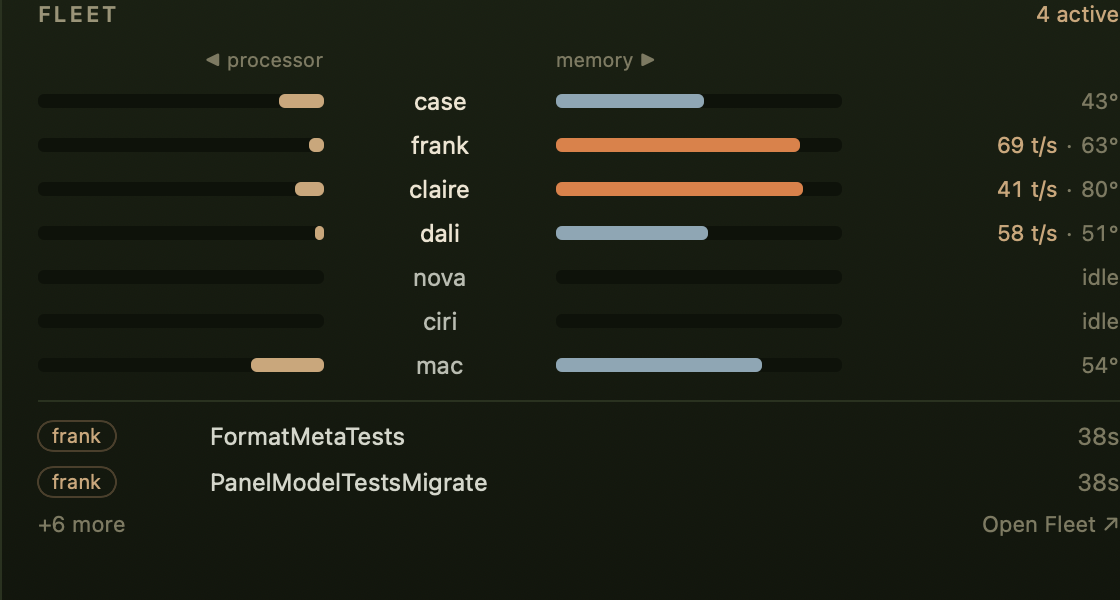
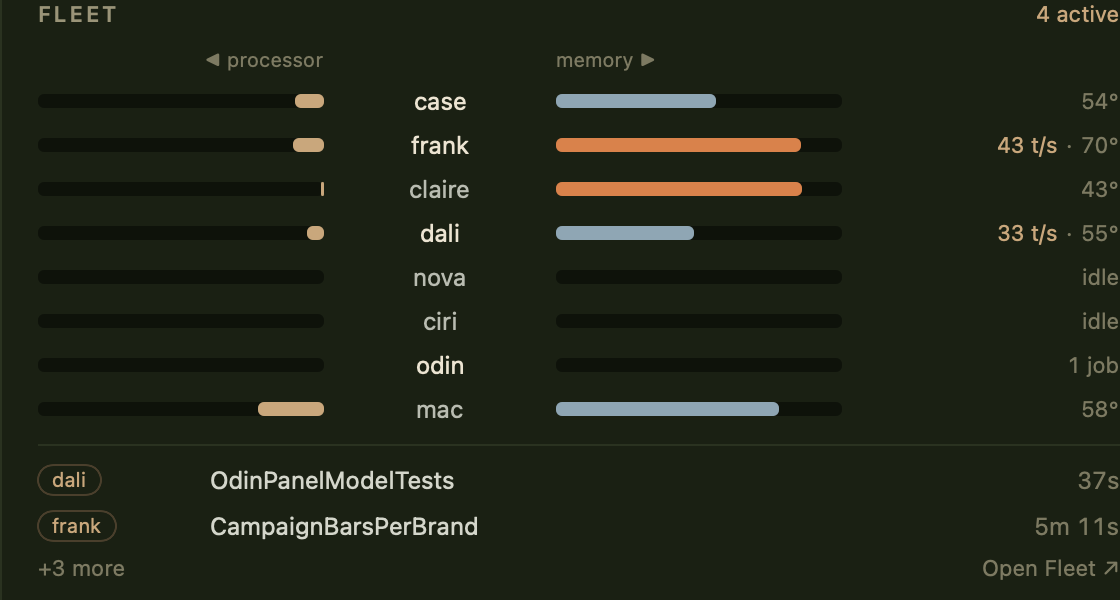
Fleet panel: add the Odin node (QA reviewer)
Odin is the QA step that runs on case, reported by the fleet API like ciri:
activity device "odin", fleet machine id "odin". The builder gives it the
same agent lane shape — label "odin", kind .agent, state from the odin
machine, jobs from the odin device, no CPU/RAM/temp readings (empty bars,
"1 job"/"N jobs"/"idle"/"—"), and it counts once in "N active" like every
other lane. Row order becomes frank, claire, dali, nova, ciri, odin, macbook.

Missing data stays inert: while the API does not report odin yet the lane
renders offline/grey like any other absent machine, no crash.

Tests: odin busy (3, 1 and 0 jobs), idle, offline-when-the-machine-is-missing,
and activeCount/nowJobs coverage; the shared fixtures now include the odin
machine.

docs/fleet-section-preview.png refreshed from the live API payload (odin
reviewing).

diff --git a/boringNotchTests/FleetPanelModelTests.swift b/boringNotchTests/FleetPanelModelTests.swift
@@ -44,10 +44,11 @@ final class FleetPanelModelTests: XCTestCase {
         return "{\"generatedAt\":\"2026-10-02T07:00:00.000Z\",\"devices\":[\(devices.joined(separator: ","))]}"
     }
 
-    /// case, frank (37.5°, 85% RAM), claire, dali (51°), macbook (68.3°), ciri (no readings); all online.
+    /// case, frank (37.5°, 85% RAM), claire, dali (51°), macbook (68.3°), ciri (no readings), odin (no readings); all online.
     private func onlineFleetJSON() -> String {
         return fleetJSON([machineJSON("case"), machineJSON("frank", ram: 85, temp: 37.5), machineJSON("claire"),
-                          machineJSON("dali", temp: 51), machineJSON("macbook", temp: 68.3), machineJSON("ciri")])
+                          machineJSON("dali", temp: 51), machineJSON("macbook", temp: 68.3), machineJSON("ciri"),
+                          machineJSON("odin")])
     }
 
     private func fleet(_ json: String, file: StaticString = #file, line: UInt = #line) -> FleetSnapshot? {
@@ -71,15 +72,15 @@ final class FleetPanelModelTests: XCTestCase {
 
     func testNilSnapshotsGiveOfflineLanesAndCaseOrigin() {
         let model = FleetPanelModelBuilder.build(fleet: nil, activity: nil)
-        XCTAssertEqual(model.nodes.map(\.id), ["frank", "claire", "dali", "nova", "ciri", "macbook"])
-        XCTAssertEqual(model.nodes.map(\.label), ["frank", "claire", "dali", "nova", "ciri", "mac"])
-        XCTAssertEqual(model.nodes.map(\.kind), [.gpu, .gpu, .gpu, .cloud, .agent, .mac])
-        XCTAssertEqual(model.nodes.map(\.state), [.offline, .offline, .offline, .offline, .offline, .offline])
+        XCTAssertEqual(model.nodes.map(\.id), ["frank", "claire", "dali", "nova", "ciri", "odin", "macbook"])
+        XCTAssertEqual(model.nodes.map(\.label), ["frank", "claire", "dali", "nova", "ciri", "odin", "mac"])
+        XCTAssertEqual(model.nodes.map(\.kind), [.gpu, .gpu, .gpu, .cloud, .agent, .agent, .mac])
+        XCTAssertEqual(model.nodes.map(\.state), [.offline, .offline, .offline, .offline, .offline, .offline, .offline])
         XCTAssertEqual(model.origin.id, "case")
         XCTAssertEqual(model.origin.label, "case")
         XCTAssertEqual(model.origin.kind, .host)
         XCTAssertEqual(model.origin.state, .offline)
-        XCTAssertEqual(model.lanes.map(\.id), ["case", "frank", "claire", "dali", "nova", "ciri", "macbook"])
+        XCTAssertEqual(model.lanes.map(\.id), ["case", "frank", "claire", "dali", "nova", "ciri", "odin", "macbook"])
         XCTAssertEqual(model.activeCount, 0)
         XCTAssertFalse(model.isBusy)
         XCTAssertTrue(model.nowJobs.isEmpty)
@@ -182,7 +183,8 @@ final class FleetPanelModelTests: XCTestCase {
 
     func testCaseOriginCountsOnceAndShowsTemperature() {
         let json = fleetJSON([machineJSON("case", temp: 38.37), machineJSON("frank"), machineJSON("claire"),
-                              machineJSON("dali"), machineJSON("macbook"), machineJSON("ciri")])
+                              machineJSON("dali"), machineJSON("macbook"), machineJSON("ciri"),
+                              machineJSON("odin")])
         guard let f = fleet(json),
               let a = activity(activityJSON([deviceJSON("case", busy: true, items: [
                   itemJSON("case-a", device: "case", since: "2026-10-02T06:00:00.000Z", elapsedSec: 120),
@@ -194,7 +196,7 @@ final class FleetPanelModelTests: XCTestCase {
         XCTAssertEqual(model.origin.jobs.count, 2)
         XCTAssertEqual(model.origin.meta.text, "38°")
         XCTAssertEqual(model.activeCount, 1)                      // case counts once only
-        XCTAssertEqual(model.nodes.map(\.state), [.idle, .idle, .idle, .idle, .idle, .idle])
+        XCTAssertEqual(model.nodes.map(\.state), [.idle, .idle, .idle, .idle, .idle, .idle, .idle])
     }
 
     func testNowJobsDedupAndNewestFirst() {
@@ -225,5 +227,43 @@ final class FleetPanelModelTests: XCTestCase {
         guard let frank = lane(model2, "frank") else { return }
         XCTAssertEqual(frank.state, .busy)                        // slots.used > 0 counts as busy
         XCTAssertEqual(model2.activeCount, 1)
+    }
+
+    func testOdinLaneJobCountsAndEmptyBars() {
+        func odinLane(_ items: [String], _ busy: Bool, _ json: String) -> FleetLane? {
+            guard let f = fleet(json), let a = activity(activityJSON([deviceJSON("odin", busy: busy, items: items)])) else { return nil }
+            return lane(FleetPanelModelBuilder.build(fleet: f, activity: a), "odin")
+        }
+        let of = onlineFleetJSON()
+        let three = (1...3).map { itemJSON("odin-\($0)", device: "odin", file: "/tmp/odin\($0).jsonl") }
+        guard let odin = odinLane(three, true, of), let one = odinLane([three[0]], true, of),
+              let empty = odinLane([], true, of), let idle = odinLane([], false, of) else { return }
+        XCTAssertEqual(odin.kind, .agent)
+        XCTAssertEqual(odin.label, "odin")
+        XCTAssertEqual(odin.state, .busy)
+        XCTAssertEqual(odin.meta.text, "3 jobs")
+        XCTAssertEqual(FleetFormat.barFraction(odin.cpu), 0)
+        XCTAssertEqual(FleetFormat.barFraction(odin.ram), 0)
+        XCTAssertEqual(one.meta.text, "1 job")
+        XCTAssertEqual(empty.meta.text, "1 job")
+        XCTAssertEqual(idle.state, .idle)
+        XCTAssertEqual(idle.meta.text, "idle")
+        let noOdin = fleetJSON(["case", "frank", "claire", "dali", "macbook"].map { machineJSON($0) })
+        guard let off = odinLane([], true, noOdin) else { return }
+        XCTAssertEqual(off.state, .offline)
+        XCTAssertEqual(off.meta.text, "—")
+    }
+
+    func testOdinCountsTowardActiveCount() {
+        guard let f = fleet(onlineFleetJSON()),
+              let a = activity(activityJSON([deviceJSON("odin", busy: true, items: [
+                  itemJSON("odin-job", device: "odin", since: "2026-10-02T06:00:00.000Z", elapsedSec: 120),
+              ])])) else { return }
+        let model = FleetPanelModelBuilder.build(fleet: f, activity: a)
+        guard let odin = lane(model, "odin") else { return }
+        XCTAssertEqual(odin.state, .busy)
+        XCTAssertEqual(odin.meta.text, "1 job")
+        XCTAssertEqual(model.activeCount, 1)
+        XCTAssertTrue(model.nowJobs.contains { $0.pill == "odin" })
     }
 }

diff --git a/boringNotch/components/Fleet/FleetPanelModel.swift b/boringNotch/components/Fleet/FleetPanelModel.swift
@@ -2,8 +2,8 @@
 //  FleetPanelModel.swift
 //  boringNotch
 //
-//  Data model for the opened fleet panel: the case origin plus the six machines
-//  (frank, claire, dali, nova, ciri, macbook) as butterfly rows, plus the "Now" jobs.
+//  Data model for the opened fleet panel: the case origin plus the machines
+//  (frank, claire, dali, nova, ciri, odin, macbook) as butterfly rows, plus the "Now" jobs.
 //  Foundation only (no SwiftUI) so it compiles into both the app target and the test
 //  target.
 //
@@ -50,7 +50,7 @@ struct FleetLane: Identifiable, Equatable {
 
 struct FleetPanelModel: Equatable {
     var origin: FleetLane          // id "case"
-    var nodes: [FleetLane]         // row order: frank, claire, dali, nova, ciri, macbook
+    var nodes: [FleetLane]         // row order: frank, claire, dali, nova, ciri, odin, macbook
     var activeCount: Int
 
     var isBusy: Bool { activeCount > 0 }
@@ -82,7 +82,7 @@ struct FleetPanelModel: Equatable {
 }
 
 enum FleetPanelModelBuilder {
-    static let nodeIds = ["frank", "claire", "dali", "nova", "ciri", "macbook"]
+    static let nodeIds = ["frank", "claire", "dali", "nova", "ciri", "odin", "macbook"]
 
     /// "openrouter" | "qwencloud" | "other" (nil/empty/unknown model -> "other").
     static func cloudProvider(_ model: String?) -> String {
@@ -101,6 +101,9 @@ enum FleetPanelModelBuilder {
             machineLane(id: "dali", kind: .gpu, fleet: fleet, activity: activity),
             novaLane(fleet: fleet, activity: activity),
             machineLane(id: "ciri", kind: .agent, fleet: fleet, activity: activity),
+            // Odin is the QA reviewer that runs on case (Codex): same shape as ciri —
+            // activity device "odin", fleet machine "odin", no CPU/RAM/temp readings.
+            machineLane(id: "odin", kind: .agent, fleet: fleet, activity: activity),
             machineLane(id: "macbook", kind: .mac, fleet: fleet, activity: activity),
         ]
         let activeCount = ([origin] + nodes).filter { $0.state == .busy }.count
